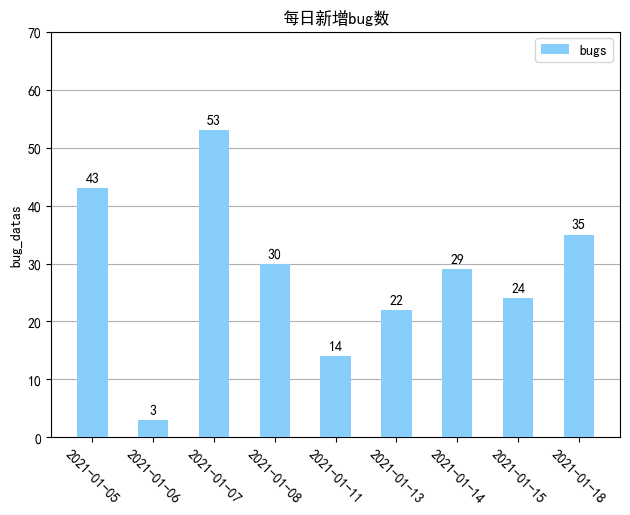
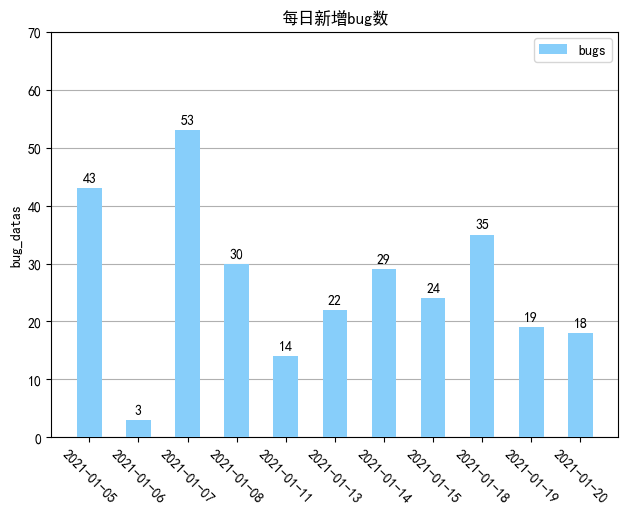
2021/1/21 修复开发已解决BUG数量统计

diff --git a/Tapd/html/developerHtml.html b/Tapd/html/developerHtml.html
@@ -5,6 +5,6 @@
     <title>模板</title>
 </head>
 <body>
-<table style="border-collapse:collapse;word-break:keep-all;white-space:nowrap;font-size:14px;"><tr style="color:#fff;background-color:#48a6fb;font-size:18px;"><th style="border-color:#000;border-width:1px;border-style:solid;padding:15px;text-align:center;">开发人员</th><th style="border-color:#000;border-width:1px;border-style:solid;padding:15px;text-align:center;">今日解决BUG数</th><th style="border-color:#000;border-width:1px;border-style:solid;padding:15px;text-align:center;">待解决BUG数</th><th style="border-color:#000;border-width:1px;border-style:solid;padding:15px;text-align:center;">今日新增bug数</th></tr><tr><td style="border-color:#000;border-width:1px;border-style:solid;padding:8px;text-align:center;font-size:15px;">沈滔</td><td style="border-color:#000;border-width:1px;border-style:solid;padding:8px;text-align:center;font-size:15px;">7</td><td style="border-color:#000;border-width:1px;border-style:solid;padding:8px;text-align:center;font-size:15px;">2</td><td style="border-color:#000;border-width:1px;border-style:solid;padding:8px;text-align:center;font-size:15px;">4</td></tr><tr><td style="border-color:#000;border-width:1px;border-style:solid;padding:5px;text-align:center;">吴吉</td><td style="border-color:#000;border-width:1px;border-style:solid;padding:5px;text-align:center;">3</td><td style="border-color:#000;border-width:1px;border-style:solid;padding:5px;text-align:center;">0</td><td style="border-color:#000;border-width:1px;border-style:solid;padding:5px;text-align:center;">0</td></tr><tr><td style="border-color:#000;border-width:1px;border-style:solid;padding:5px;text-align:center;">孙运</td><td style="border-color:#000;border-width:1px;border-style:solid;padding:5px;text-align:center;">0</td><td style="border-color:#000;border-width:1px;border-style:solid;padding:5px;text-align:center;">1</td><td style="border-color:#000;border-width:1px;border-style:solid;padding:5px;text-align:center;">1</td></tr><tr><td style="border-color:#000;border-width:1px;border-style:solid;padding:5px;text-align:center;">李星</td><td style="border-color:#000;border-width:1px;border-style:solid;padding:5px;text-align:center;">11</td><td style="border-color:#000;border-width:1px;border-style:solid;padding:5px;text-align:center;">11</td><td style="border-color:#000;border-width:1px;border-style:solid;padding:5px;text-align:center;">10</td></tr><tr><td style="border-color:#000;border-width:1px;border-style:solid;padding:5px;text-align:center;">李雄</td><td style="border-color:#000;border-width:1px;border-style:solid;padding:5px;text-align:center;">3</td><td style="border-color:#000;border-width:1px;border-style:solid;padding:5px;text-align:center;">1</td><td style="border-color:#000;border-width:1px;border-style:solid;padding:5px;text-align:center;">2</td></tr><tr><td style="border-color:#000;border-width:1px;border-style:solid;padding:5px;text-align:center;">张科君</td><td style="border-color:#000;border-width:1px;border-style:solid;padding:5px;text-align:center;">2</td><td style="border-color:#000;border-width:1px;border-style:solid;padding:5px;text-align:center;">0</td><td style="border-color:#000;border-width:1px;border-style:solid;padding:5px;text-align:center;">1</td></tr><tr><td style="border-color:#000;border-width:1px;border-style:solid;padding:5px;text-align:center;">尹君</td><td style="border-color:#000;border-width:1px;border-style:solid;padding:5px;text-align:center;">0</td><td style="border-color:#000;border-width:1px;border-style:solid;padding:5px;text-align:center;">3</td><td style="border-color:#000;border-width:1px;border-style:solid;padding:5px;text-align:center;">3</td></tr><tr><td style="border-color:#000;border-width:1px;border-style:solid;padding:5px;text-align:center;">曾俊</td><td style="border-color:#000;border-width:1px;border-style:solid;padding:5px;text-align:center;">0</td><td style="border-color:#000;border-width:1px;border-style:solid;padding:5px;text-align:center;">1</td><td style="border-color:#000;border-width:1px;border-style:solid;padding:5px;text-align:center;">0</td></tr><tr><td style="border-color:#000;border-width:1px;border-style:solid;padding:5px;text-align:center;">总计</td><td style="border-color:#000;border-width:1px;border-style:solid;padding:5px;text-align:center;">26</td><td style="border-color:#000;border-width:1px;border-style:solid;padding:5px;text-align:center;">19</td><td style="border-color:#000;border-width:1px;border-style:solid;padding:5px;text-align:center;">21</td></tr></table>
+<table style="border-collapse:collapse;word-break:keep-all;white-space:nowrap;font-size:14px;"><tr style="color:#fff;background-color:#48a6fb;font-size:18px;"><th style="border-color:#000;border-width:1px;border-style:solid;padding:15px;text-align:center;">开发人员</th><th style="border-color:#000;border-width:1px;border-style:solid;padding:15px;text-align:center;">今日解决BUG数</th><th style="border-color:#000;border-width:1px;border-style:solid;padding:15px;text-align:center;">待解决BUG数</th><th style="border-color:#000;border-width:1px;border-style:solid;padding:15px;text-align:center;">今日新增bug数</th></tr><tr><td style="border-color:#000;border-width:1px;border-style:solid;padding:8px;text-align:center;font-size:15px;">沈滔</td><td style="border-color:#000;border-width:1px;border-style:solid;padding:8px;text-align:center;font-size:15px;">2</td><td style="border-color:#000;border-width:1px;border-style:solid;padding:8px;text-align:center;font-size:15px;">1</td><td style="border-color:#000;border-width:1px;border-style:solid;padding:8px;text-align:center;font-size:15px;">1</td></tr><tr><td style="border-color:#000;border-width:1px;border-style:solid;padding:5px;text-align:center;">吴吉</td><td style="border-color:#000;border-width:1px;border-style:solid;padding:5px;text-align:center;">0</td><td style="border-color:#000;border-width:1px;border-style:solid;padding:5px;text-align:center;">0</td><td style="border-color:#000;border-width:1px;border-style:solid;padding:5px;text-align:center;">0</td></tr><tr><td style="border-color:#000;border-width:1px;border-style:solid;padding:5px;text-align:center;">孙运</td><td style="border-color:#000;border-width:1px;border-style:solid;padding:5px;text-align:center;">1</td><td style="border-color:#000;border-width:1px;border-style:solid;padding:5px;text-align:center;">2</td><td style="border-color:#000;border-width:1px;border-style:solid;padding:5px;text-align:center;">0</td></tr><tr><td style="border-color:#000;border-width:1px;border-style:solid;padding:5px;text-align:center;">李星</td><td style="border-color:#000;border-width:1px;border-style:solid;padding:5px;text-align:center;">3</td><td style="border-color:#000;border-width:1px;border-style:solid;padding:5px;text-align:center;">10</td><td style="border-color:#000;border-width:1px;border-style:solid;padding:5px;text-align:center;">4</td></tr><tr><td style="border-color:#000;border-width:1px;border-style:solid;padding:5px;text-align:center;">张科君</td><td style="border-color:#000;border-width:1px;border-style:solid;padding:5px;text-align:center;">0</td><td style="border-color:#000;border-width:1px;border-style:solid;padding:5px;text-align:center;">0</td><td style="border-color:#000;border-width:1px;border-style:solid;padding:5px;text-align:center;">0</td></tr><tr><td style="border-color:#000;border-width:1px;border-style:solid;padding:5px;text-align:center;">张夏泉</td><td style="border-color:#000;border-width:1px;border-style:solid;padding:5px;text-align:center;">0</td><td style="border-color:#000;border-width:1px;border-style:solid;padding:5px;text-align:center;">1</td><td style="border-color:#000;border-width:1px;border-style:solid;padding:5px;text-align:center;">0</td></tr><tr><td style="border-color:#000;border-width:1px;border-style:solid;padding:5px;text-align:center;">龙庆玉</td><td style="border-color:#000;border-width:1px;border-style:solid;padding:5px;text-align:center;">6</td><td style="border-color:#000;border-width:1px;border-style:solid;padding:5px;text-align:center;">0</td><td style="border-color:#000;border-width:1px;border-style:solid;padding:5px;text-align:center;">3</td></tr><tr><td style="border-color:#000;border-width:1px;border-style:solid;padding:5px;text-align:center;">潘清</td><td style="border-color:#000;border-width:1px;border-style:solid;padding:5px;text-align:center;">0</td><td style="border-color:#000;border-width:1px;border-style:solid;padding:5px;text-align:center;">0</td><td style="border-color:#000;border-width:1px;border-style:solid;padding:5px;text-align:center;">0</td></tr><tr><td style="border-color:#000;border-width:1px;border-style:solid;padding:5px;text-align:center;">秦真</td><td style="border-color:#000;border-width:1px;border-style:solid;padding:5px;text-align:center;">0</td><td style="border-color:#000;border-width:1px;border-style:solid;padding:5px;text-align:center;">0</td><td style="border-color:#000;border-width:1px;border-style:solid;padding:5px;text-align:center;">0</td></tr><tr><td style="border-color:#000;border-width:1px;border-style:solid;padding:5px;text-align:center;">黄晨</td><td style="border-color:#000;border-width:1px;border-style:solid;padding:5px;text-align:center;">2</td><td style="border-color:#000;border-width:1px;border-style:solid;padding:5px;text-align:center;">0</td><td style="border-color:#000;border-width:1px;border-style:solid;padding:5px;text-align:center;">1</td></tr><tr><td style="border-color:#000;border-width:1px;border-style:solid;padding:5px;text-align:center;">尹君</td><td style="border-color:#000;border-width:1px;border-style:solid;padding:5px;text-align:center;">2</td><td style="border-color:#000;border-width:1px;border-style:solid;padding:5px;text-align:center;">9</td><td style="border-color:#000;border-width:1px;border-style:solid;padding:5px;text-align:center;">7</td></tr><tr><td style="border-color:#000;border-width:1px;border-style:solid;padding:5px;text-align:center;">总计</td><td style="border-color:#000;border-width:1px;border-style:solid;padding:5px;text-align:center;">16</td><td style="border-color:#000;border-width:1px;border-style:solid;padding:5px;text-align:center;">23</td><td style="border-color:#000;border-width:1px;border-style:solid;padding:5px;text-align:center;">16</td></tr></table>
 </body>
 </html>

diff --git a/Tapd/html/testerHtml.html b/Tapd/html/testerHtml.html
@@ -5,6 +5,6 @@
     <title>模板</title>
 </head>
 <body>
-<table style="border-collapse:collapse;word-break:keep-all;white-space:nowrap;font-size:14px;"><tr style="color:#fff;background-color:#48a6fb;font-size:18px;"><th style="border-color:#000;border-width:1px;border-style:solid;padding:15px;text-align:center;">测试人员</th><th style="border-color:#000;border-width:1px;border-style:solid;padding:15px;text-align:center;">今日提交BUG数</th><th style="border-color:#000;border-width:1px;border-style:solid;padding:15px;text-align:center;">待验证BUG数</th><th style="border-color:#000;border-width:1px;border-style:solid;padding:15px;text-align:center;">今日关闭BUG数</th></tr><tr><td style="border-color:#000;border-width:1px;border-style:solid;padding:8px;text-align:center;font-size:15px;">伍洋</td><td style="border-color:#000;border-width:1px;border-style:solid;padding:8px;text-align:center;font-size:15px;">12</td><td style="border-color:#000;border-width:1px;border-style:solid;padding:8px;text-align:center;font-size:15px;">16</td><td style="border-color:#000;border-width:1px;border-style:solid;padding:8px;text-align:center;font-size:15px;">3</td></tr><tr><td style="border-color:#000;border-width:1px;border-style:solid;padding:5px;text-align:center;">苏林子</td><td style="border-color:#000;border-width:1px;border-style:solid;padding:5px;text-align:center;">10</td><td style="border-color:#000;border-width:1px;border-style:solid;padding:5px;text-align:center;">20</td><td style="border-color:#000;border-width:1px;border-style:solid;padding:5px;text-align:center;">0</td></tr><tr><td style="border-color:#000;border-width:1px;border-style:solid;padding:5px;text-align:center;">刘巧利</td><td style="border-color:#000;border-width:1px;border-style:solid;padding:5px;text-align:center;">6</td><td style="border-color:#000;border-width:1px;border-style:solid;padding:5px;text-align:center;">11</td><td style="border-color:#000;border-width:1px;border-style:solid;padding:5px;text-align:center;">40</td></tr><tr><td style="border-color:#000;border-width:1px;border-style:solid;padding:5px;text-align:center;">文玉婷</td><td style="border-color:#000;border-width:1px;border-style:solid;padding:5px;text-align:center;">0</td><td style="border-color:#000;border-width:1px;border-style:solid;padding:5px;text-align:center;">7</td><td style="border-color:#000;border-width:1px;border-style:solid;padding:5px;text-align:center;">0</td></tr><tr><td style="border-color:#000;border-width:1px;border-style:solid;padding:5px;text-align:center;">唐洁TangJie01</td><td style="border-color:#000;border-width:1px;border-style:solid;padding:5px;text-align:center;">2</td><td style="border-color:#000;border-width:1px;border-style:solid;padding:5px;text-align:center;">2</td><td style="border-color:#000;border-width:1px;border-style:solid;padding:5px;text-align:center;">2</td></tr><tr><td style="border-color:#000;border-width:1px;border-style:solid;padding:5px;text-align:center;">总计</td><td style="border-color:#000;border-width:1px;border-style:solid;padding:5px;text-align:center;">30</td><td style="border-color:#000;border-width:1px;border-style:solid;padding:5px;text-align:center;">56</td><td style="border-color:#000;border-width:1px;border-style:solid;padding:5px;text-align:center;">45</td></tr></table>
+<table style="border-collapse:collapse;word-break:keep-all;white-space:nowrap;font-size:14px;"><tr style="color:#fff;background-color:#48a6fb;font-size:18px;"><th style="border-color:#000;border-width:1px;border-style:solid;padding:15px;text-align:center;">测试人员</th><th style="border-color:#000;border-width:1px;border-style:solid;padding:15px;text-align:center;">今日提交BUG数</th><th style="border-color:#000;border-width:1px;border-style:solid;padding:15px;text-align:center;">待验证BUG数</th><th style="border-color:#000;border-width:1px;border-style:solid;padding:15px;text-align:center;">今日关闭BUG数</th></tr><tr><td style="border-color:#000;border-width:1px;border-style:solid;padding:8px;text-align:center;font-size:15px;">伍洋</td><td style="border-color:#000;border-width:1px;border-style:solid;padding:8px;text-align:center;font-size:15px;">3</td><td style="border-color:#000;border-width:1px;border-style:solid;padding:8px;text-align:center;font-size:15px;">8</td><td style="border-color:#000;border-width:1px;border-style:solid;padding:8px;text-align:center;font-size:15px;">14</td></tr><tr><td style="border-color:#000;border-width:1px;border-style:solid;padding:5px;text-align:center;">苏林子</td><td style="border-color:#000;border-width:1px;border-style:solid;padding:5px;text-align:center;">11</td><td style="border-color:#000;border-width:1px;border-style:solid;padding:5px;text-align:center;">7</td><td style="border-color:#000;border-width:1px;border-style:solid;padding:5px;text-align:center;">4</td></tr><tr><td style="border-color:#000;border-width:1px;border-style:solid;padding:5px;text-align:center;">刘巧利</td><td style="border-color:#000;border-width:1px;border-style:solid;padding:5px;text-align:center;">2</td><td style="border-color:#000;border-width:1px;border-style:solid;padding:5px;text-align:center;">0</td><td style="border-color:#000;border-width:1px;border-style:solid;padding:5px;text-align:center;">7</td></tr><tr><td style="border-color:#000;border-width:1px;border-style:solid;padding:5px;text-align:center;">文玉婷</td><td style="border-color:#000;border-width:1px;border-style:solid;padding:5px;text-align:center;">0</td><td style="border-color:#000;border-width:1px;border-style:solid;padding:5px;text-align:center;">7</td><td style="border-color:#000;border-width:1px;border-style:solid;padding:5px;text-align:center;">0</td></tr><tr><td style="border-color:#000;border-width:1px;border-style:solid;padding:5px;text-align:center;">刘迎</td><td style="border-color:#000;border-width:1px;border-style:solid;padding:5px;text-align:center;">0</td><td style="border-color:#000;border-width:1px;border-style:solid;padding:5px;text-align:center;">2</td><td style="border-color:#000;border-width:1px;border-style:solid;padding:5px;text-align:center;">2</td></tr><tr><td style="border-color:#000;border-width:1px;border-style:solid;padding:5px;text-align:center;">唐洁TangJie01</td><td style="border-color:#000;border-width:1px;border-style:solid;padding:5px;text-align:center;">2</td><td style="border-color:#000;border-width:1px;border-style:solid;padding:5px;text-align:center;">3</td><td style="border-color:#000;border-width:1px;border-style:solid;padding:5px;text-align:center;">2</td></tr><tr><td style="border-color:#000;border-width:1px;border-style:solid;padding:5px;text-align:center;">总计</td><td style="border-color:#000;border-width:1px;border-style:solid;padding:5px;text-align:center;">18</td><td style="border-color:#000;border-width:1px;border-style:solid;padding:5px;text-align:center;">27</td><td style="border-color:#000;border-width:1px;border-style:solid;padding:5px;text-align:center;">29</td></tr></table>
 </body>
 </html>

diff --git a/Tapd/main.py b/Tapd/main.py
@@ -145,10 +145,10 @@ if __name__ == '__main__':
     version = '2.1.7'
     username = '17600445140'
     password = 'Hc17600445140'
-    # roboturl = 'https://qyapi.weixin.qq.com/cgi-bin/webhook/send?key=a7d6ff37-bcf2-49d0-9f2c-dee68ec82e05'
-    roboturl = 'https://qyapi.weixin.qq.com/cgi-bin/webhook/send?key=9607d7b2-6c72-4e73-ae7a-e27c0990b467'
-    developer = ["沈滔", "吴吉", "孙运", "李星", "李雄", "张科君", "尹君", "曾俊"]
-    tester = ["伍洋", "苏林子", "刘巧利", "文玉婷", "唐洁TangJie01"]
+    roboturl = 'https://qyapi.weixin.qq.com/cgi-bin/webhook/send?key=a7d6ff37-bcf2-49d0-9f2c-dee68ec82e05'
+    # roboturl = 'https://qyapi.weixin.qq.com/cgi-bin/webhook/send?key=9607d7b2-6c72-4e73-ae7a-e27c0990b467'
+    developer = ["沈滔", "吴吉", "孙运", "李星", "张科君", "张夏泉", "龙庆玉", "潘清", "秦真", "黄晨", "尹君"]
+    tester = ["伍洋", "苏林子", "刘巧利", "文玉婷", "刘迎", "唐洁TangJie01"]
 
 
     today = strftime("%Y-%m-%d", localtime(time()))
